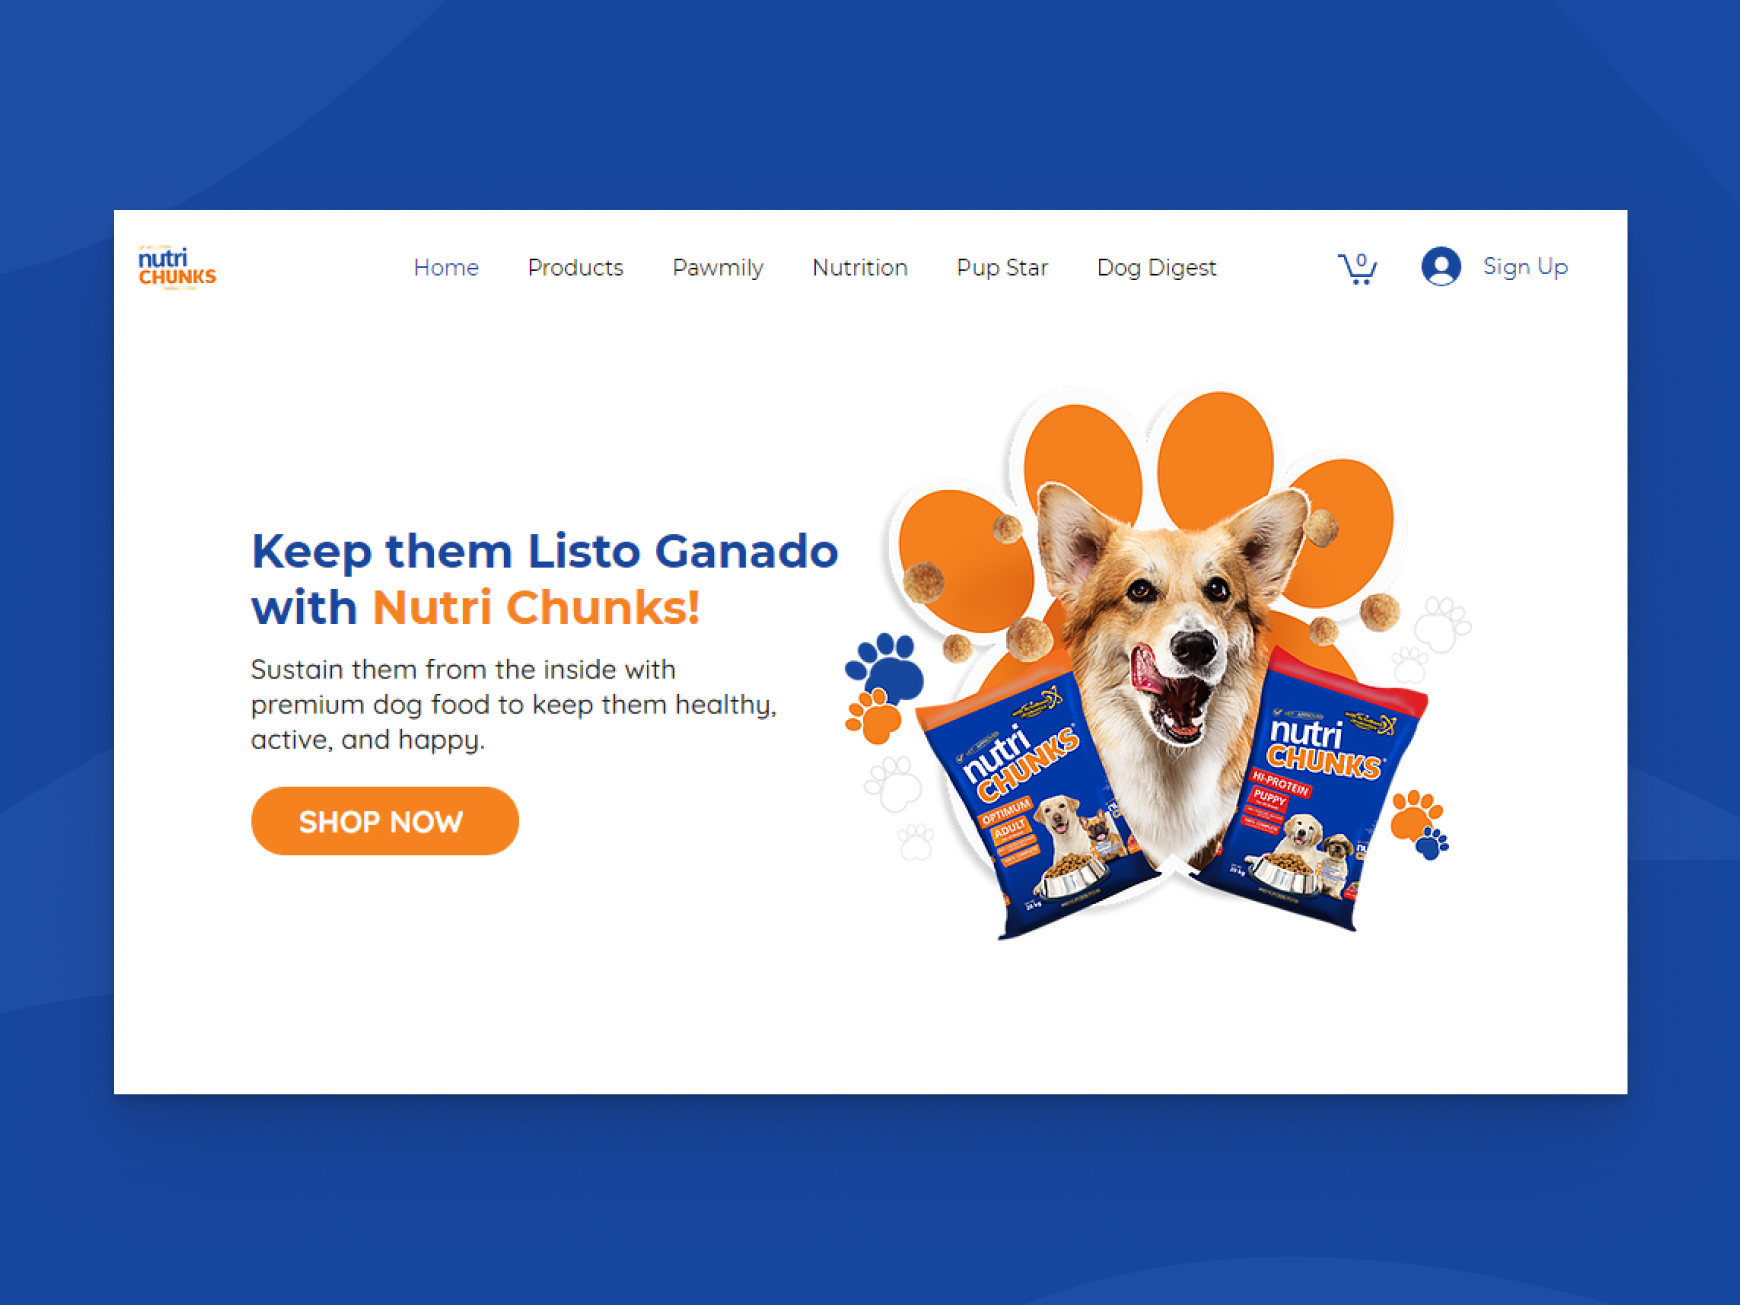
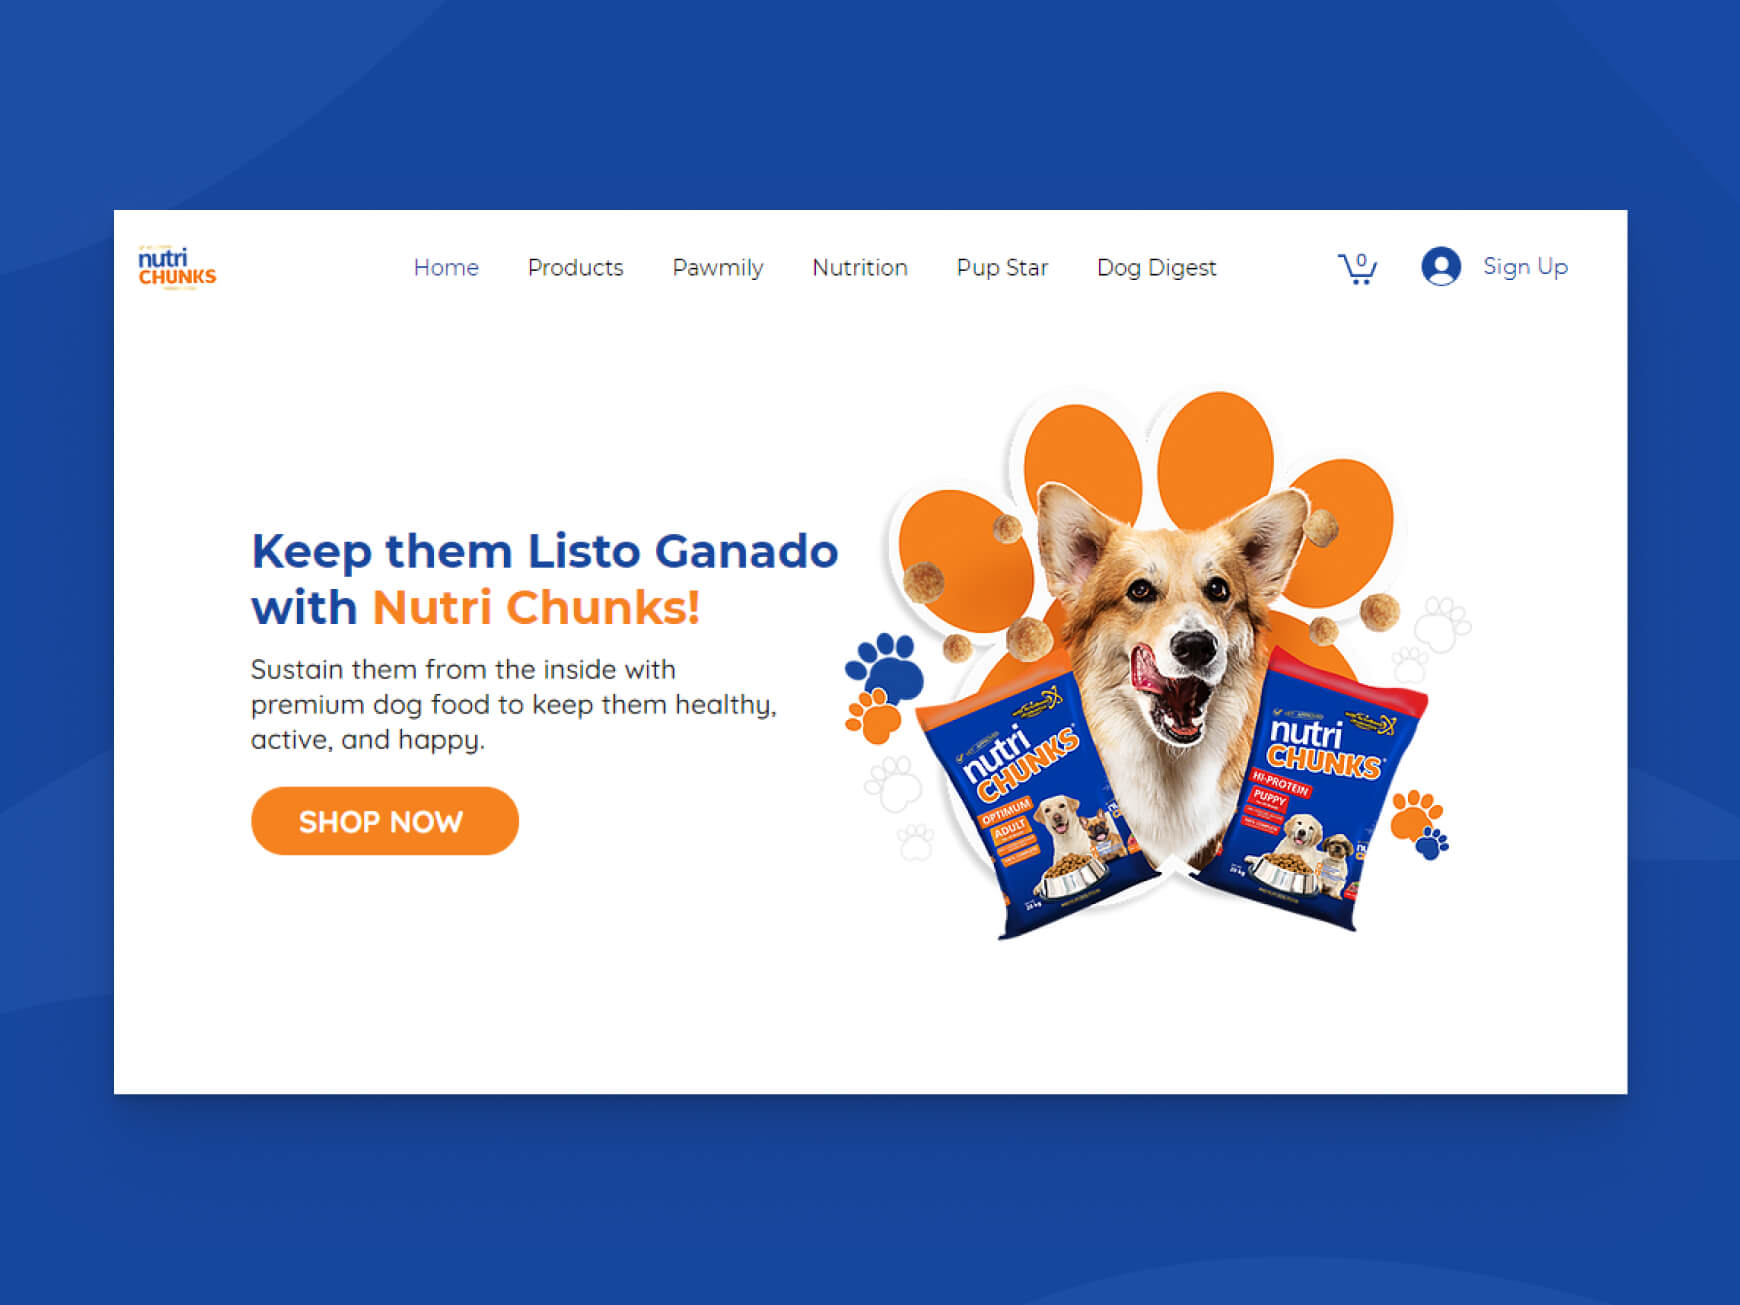
optimize images, added cors-anywhere

diff --git a/main.js b/main.js
@@ -113,7 +113,7 @@ Date.prototype.addHours = function (h) {
 }
 
 // Letterboxd 
-const RSS_URL = "https://letterboxd.com/joshuasalazar/rss/";
+const RSS_URL = "https://cors-anywhere.herokuapp.com/https://letterboxd.com/joshuasalazar/rss/";
 
 $.ajax(RSS_URL, {
   accepts: {
